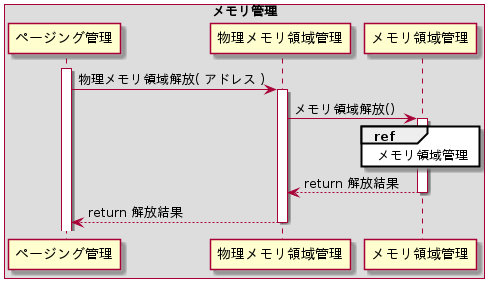
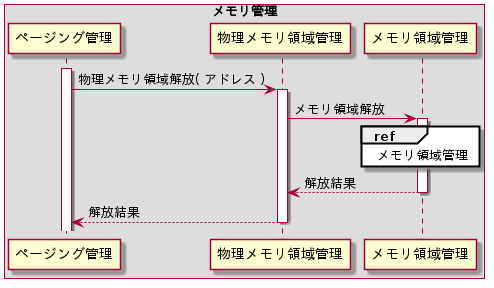
詳細に書きすぎたMemmngPhysドキュメントを削除

Changed region(s): [[0.6073, 0.5938, 0.8198, 0.6562], [0.1822, 0.7188, 0.3644, 0.7812]]

diff --git a/docs/docs/internal/Memmng/Phys/index.html b/docs/docs/internal/Memmng/Phys/index.html
@@ -46,13 +46,13 @@
                     <a itemprop="item" href="../index.html"><span itemprop="name">メモリ管理</span></a>
                     <meta itemprop="position" content="4"></li>
                 <li itemprop="itemListElement" itemscope itemtype="http://schema.org/ListItem">
-                    <a itemprop="item" href="./index.html"><span itemprop="name">物理メモリ管理</span></a>
+                    <a itemprop="item" href="./index.html"><span itemprop="name">物理メモリ領域管理</span></a>
                     <meta itemprop="position" content="5"></li>
             </ol>
         </div>
         <div id="content">
             <div>
-                <h1>物理メモリ管理 - 目次</h1>
+                <h1>物理メモリ領域管理 - 目次</h1>
                 <ol>
                     <li><a href="#abstruct">概要</a></li>
                     <li><a href="#init">初期化</a><ol>
@@ -75,7 +75,7 @@
             <div class="totop"><a href="#top">▲上へ</a></div>
             <div>
                 <h1><a name="init">初期化</a></h1>
-                <p>各種リンクリストを初期化し、未使用のブロック管理情報を未使用リンクリストに追加し、メモリマップを基に未割当リンクリストにブロック管理情報を追加する。</p>
+                <p>物理メモリ領域の割当てと解放を行えるよう管理情報を初期化する。シーケンスを以下に示す。</p>
                 <br>
                 <div class="center">
                     <img src="init.png"><br>
@@ -84,7 +84,7 @@
                 <br>
                 <br>
                 <h2><a name="init-list">リンクリスト初期化</a></h2>
-                <p>物理メモリ領域管理サブモジュールで管理する下記3つのリンクリストを初期化する。</p>
+                <p>物理メモリ領域管理サブモジュールで管理する下記3つのリンクリストを初期化する。リンクリストはMLibライブラリのリンクリスト機能を用いる。</p>
                 <br>
                 <div class="center">リンクリスト一覧</div>
                 <table>
@@ -110,81 +110,19 @@
                     </tr>
                 </table>
                 <br>
-                <p>リンクリストの初期化は、MLibライブラリのMLibListInit()を用いて行う。この関数はパラメータミスを除いてエラーが発生しないため、戻り値は確認しない。設定パラメータを以下に示す。</p>
-                <br>
-                <div class="center">MLibListInit()設定パラメータ</div>
-                <table>
-                    <tr>
-                        <td class="title">#</td>
-                        <td class="title">引数名</td>
-                        <td class="title">設定値</td>
-                    </tr>
-                    <tr>
-                        <td class="center">1</td>
-                        <td class="center">*pList</td>
-                        <td class="center">(各種リンクリストへのポインタ)</td>
-                    </tr>
-                </table>
                 <br>
                 <h2><a name="init-unused">未使用リンクリスト追加</a></h2>
-                <p>物理メモリ領域用のブロック管理情報の割り当ては動的に行えないため、扱える最大メモリサイズ4GBを4KB単位に管理する事が可能な1,000個のブロック管理情報を静的に割り当てる。</p>
-                <p>この静的に割り当てた全てのブロック管理情報を未使用リンクリストに追加する。未使用リンクリストへの追加は、MLibライブラリのMLibListInsertTail()を用いる。この関数はパラメータミスを除いてエラーが発生しないため、戻り値は確認しない。設定パラメータを以下に示す。</p>
+                <p>物理メモリ領域用のブロック管理情報の割り当ては動的に行えない(自身の機能が割当て機能である)ため、扱える最大メモリサイズ4GBを4KB単位に管理する事が可能な1,000個のブロック管理情報を静的に割り当てる。この静的に割り当てた全てのブロック管理情報を未使用リンクリストに追加する。</p>
                 <br>
-                <div class="center">MLibListInsertTail()設定パラメータ</div>
-                <table>
-                    <tr>
-                        <td class="title">#</td>
-                        <td class="title">引数名</td>
-                        <td class="title">設定値</td>
-                    </tr>
-                    <tr>
-                        <td class="center">1</td>
-                        <td class="center">*pList</td>
-                        <td class="center">(未使用リンクリストへのポインタ)</td>
-                    </tr>
-                    <tr>
-                        <td class="center">2</td>
-                        <td class="center">*pNewNode</td>
-                        <td class="center">(追加するブロック管理情報へのポインタ)</td>
-                    </tr>
-                </table>
                 <br>
                 <h2><a name="init-free">未割当リンクリスト追加</a></h2>
-                <p>初期化時に渡されたメモリマップの全エントリについて1エントリ毎に使用可能メモリ領域か判定し、使用可能メモリ領域である場合は未割当メモリ領域としてメモリ領域管理サブモジュールのAreaAdd()を用いて未割当リンクリストに追加する。設定パラメータを以下に示す。</p>
+                <p>初期化時に渡されたメモリマップの全エントリについて1エントリ毎に使用可能メモリ領域か判定し、使用可能メモリ領域である場合は未割当メモリ領域としてメモリ領域管理サブモジュールのAreaAdd()を用いて未割当リンクリストに追加する。</p>
                 <br>
-                <div class="center">AreaAdd()設定パラメータ</div>
-                <table>
-                    <tr>
-                        <td class="title">#</td>
-                        <td class="title">引数名</td>
-                        <td class="title">設定値</td>
-                    </tr>
-                    <tr>
-                        <td class="center">1</td>
-                        <td class="center">*pList</td>
-                        <td class="center">(追加先リンクリストへのポインタ)</td>
-                    </tr>
-                    <tr>
-                        <td class="center">2</td>
-                        <td class="center">*pUnusedList</td>
-                        <td class="center">(未使用リンクリストへのポインタ)</td>
-                    </tr>
-                    <tr>
-                        <td class="center">3</td>
-                        <td class="center">*pAddr</td>
-                        <td class="center">(使用可能メモリ領域先頭アドレス)</td>
-                    </tr>
-                    <tr>
-                        <td class="center">4</td>
-                        <td class="center">size</td>
-                        <td class="center">(使用可能メモリ領域サイズ)</td>
-                    </tr>
-                </table>
             </div>
             <div class="totop"><a href="#top">▲上へ</a></div>
             <div>
                 <h1><a name="alloc">物理メモリ領域割当</a></h1>
-                <p>物理メモリ領域を4KB単位で割り当てる機能を持つ。要求された割当てサイズが4KBでない場合は要求された割当てサイズを満たす4KBにアライメントしたサイズの物理メモリ領域を割り当てる。シーケンスを以下に示す。</p>
+                <p>物理メモリ領域を4KB単位で動的に割り当てる。シーケンスを以下に示す。</p>
                 <br>
                 <div class="center">
                     <img src="alloc.png"><br>
@@ -192,64 +130,17 @@
                 </div>
                 <br>
                 <h2><a name="alloc">割当てサイズアライメント</a></h2>
-                <p>割当てサイズのアライメントは、MLibライブラリのMLIB_ALIGN()マクロを使用する。設定パラメータを以下に示す。</p>
+                <p>要求されたメモリ領域のサイズが4KBでない場合は、要求された割当てサイズを満たす様に4KBアライメントする。</p>
                 <br>
-                <div class="center">MLIB_ALIGN()設定パラメータ</div>
-                <table>
-                    <tr>
-                        <td class="title">#</td>
-                        <td class="title">引数名</td>
-                        <td class="title">設定値</td>
-                    </tr>
-                    <tr>
-                        <td class="center">1</td>
-                        <td class="center">_VALUE</td>
-                        <td class="center">(割当てサイズ格納変数)</td>
-                    </tr>
-                    <tr>
-                        <td class="center">2</td>
-                        <td class="center">_ALIGNMENT</td>
-                        <td class="center">4,096</td>
-                    </tr>
-                </table>
                 <br>
                 <h2><a name="alloc-alloc">メモリ領域割当</a></h2>
-                <p>メモリ領域割当はメモリ領域管理サブモジュールのAreaAlloc()を用いて行う。設定パラメータを以下に示す。</p>
+                <p>メモリ領域割当は、各種リンクリストと4KBアライメントした割当てサイズを基に、メモリ領域管理サブモジュールの機能を用いて行う。</p>
                 <br>
-                <div class="center">AreaAlloc()設定パラメータ</div>
-                <br>
-                <table>
-                    <tr>
-                        <td class="title">#</td>
-                        <td class="title">引数名</td>
-                        <td class="title">設定値</td>
-                    </tr>
-                    <tr>
-                        <td class="center">1</td>
-                        <td class="center">*pAllocList</td>
-                        <td class="center">(割当済リンクリストへのポインタ)</td>
-                    </tr>
-                    <tr>
-                        <td class="center">2</td>
-                        <td class="center">*pFreeList</td>
-                        <td class="center">(未割当リンクリストへのポインタ)</td>
-                    </tr>
-                    <tr>
-                        <td class="center">3</td>
-                        <td class="center">*pUnusedList</td>
-                        <td class="center">(未使用リンクリストへのポインタ)</td>
-                    </tr>
-                    <tr>
-                        <td class="center">4</td>
-                        <td class="center">size</td>
-                        <td class="center">(割当てサイズ)</td>
-                    </tr>
-                </table>
             </div>
             <div class="totop"><a href="#top">▲上へ</a></div>
             <div>
                 <h1><a name="free">物理メモリ領域解放</a></h1>
-                <p>物理メモリ領域割当機能にて割り当てた領域を解放する機能を持つ。シーケンスを以下に示す。</p>
+                <p>物理メモリ領域割当機能にて割り当てたメモリ領域を解放する。シーケンスを以下に示す。</p>
                 <br>
                 <div class="center">
                     <img src="free.png"><br>
@@ -257,37 +148,8 @@
                 </div>
                 <br>
                 <h2><a name="free-free">メモリ領域解放</a></h2>
-                <p>メモリ領域の解放はメモリ領域管理サブモジュールのAreaFree()を用いて行う。設定パラメータを以下に示す。</p>
+                <p>メモリ領域の解放は、各種リンクリストと解放するアドレスを基にメモリ領域管理サブモジュールの機能を用いて行う。</p>
                 <br>
-                <div class="center">AreaFree()設定パラメータ</div>
-                <br>
-                <table>
-                    <tr>
-                        <td class="title">#</td>
-                        <td class="title">引数名</td>
-                        <td class="title">設定値</td>
-                    </tr>
-                    <tr>
-                        <td class="center">1</td>
-                        <td class="center">*pAllocList</td>
-                        <td class="center">(割当済リンクリストへのポインタ)</td>
-                    </tr>
-                    <tr>
-                        <td class="center">2</td>
-                        <td class="center">*pFreeList</td>
-                        <td class="center">(未割当リンクリストへのポインタ)</td>
-                    </tr>
-                    <tr>
-                        <td class="center">3</td>
-                        <td class="center">*pUnusedList</td>
-                        <td class="center">(未使用リンクリストへのポインタ)</td>
-                    </tr>
-                    <tr>
-                        <td class="center">4</td>
-                        <td class="center">*pAddr</td>
-                        <td class="center">(解放するメモリ領域のアドレス)</td>
-                    </tr>
-                </table>
                 <br>
             </div>
             <div class="totop"><a href="#top">▲上へ</a></div>
